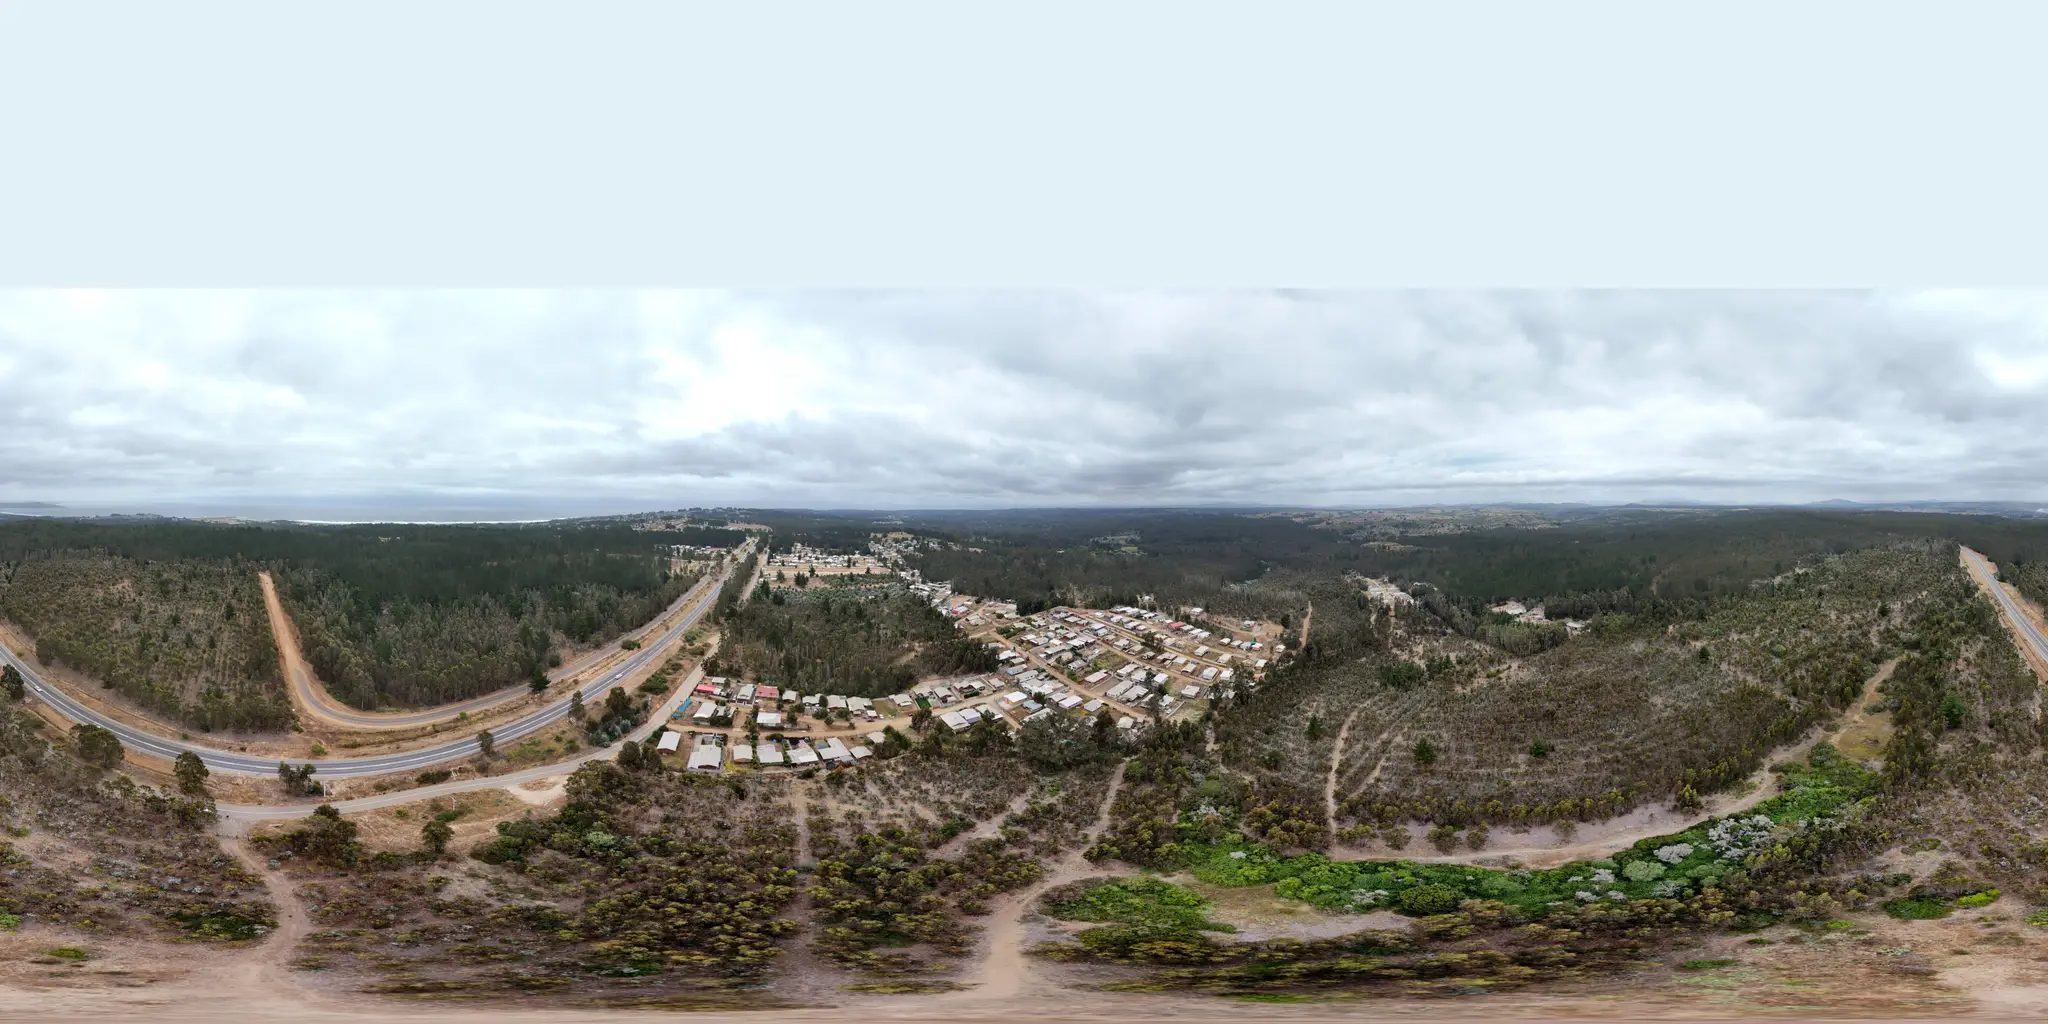
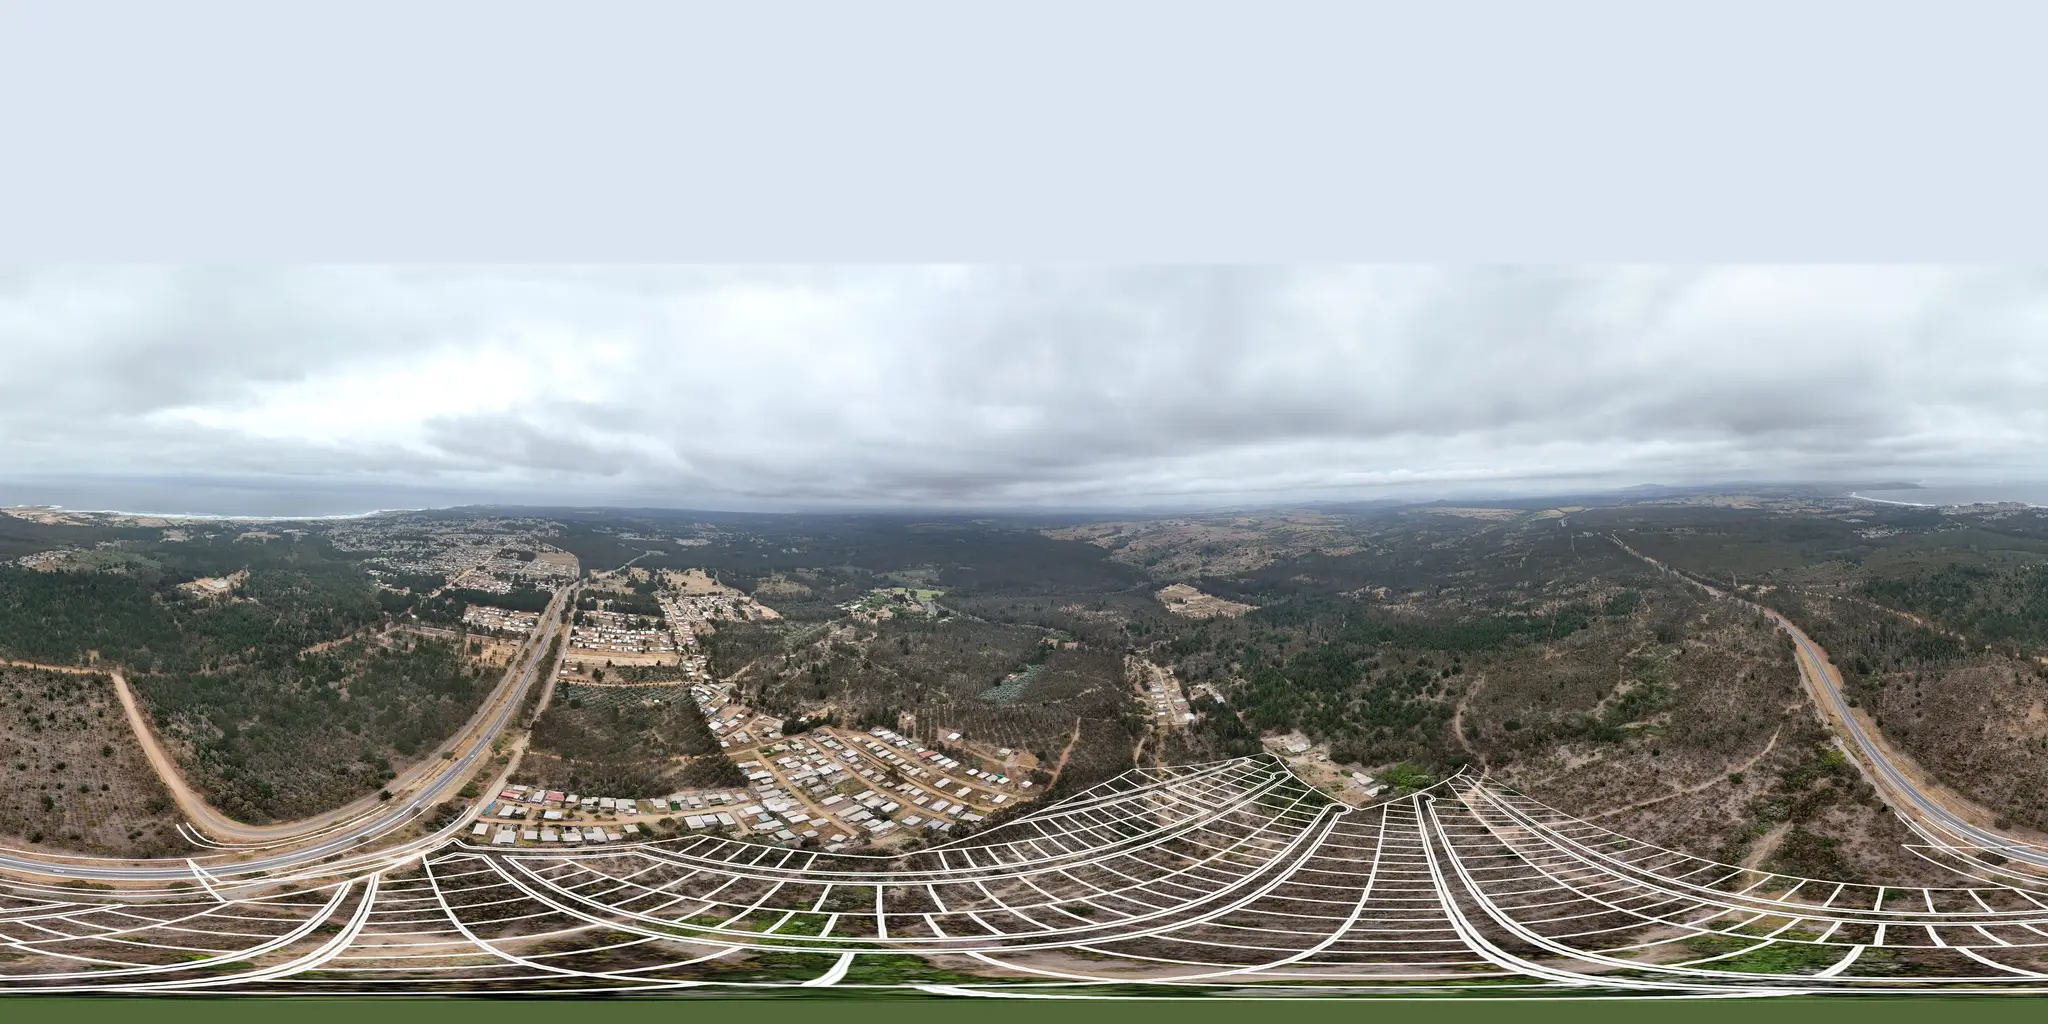
feat(mapa-3d): la panoramica pasa a ser el plano dibujado
El plano nuevo reemplaza a la panoramica antigua, y eso simplifica todo: ya
no hay que alinear una foto con la otra. Ese era mi error de enfoque, y ahi
me fui a un callejon sin salida comparando cielo contra cielo.

Ahora el unico dato que hace falta sale de la propia imagen. Cubre 129,8
grados verticales en vez de 180 porque el vuelo no alcanza el cenit, asi que
para volverla 2:1 hay que saber donde esta el horizonte: se recorre contando
por fila cuantos pixeles son cielo —claro y sin color— y se toma el corte.
Da 33,6 % del alto, o sea 791 px de relleno arriba y 65 abajo.

Con la foto ya en 2:1, el calce se calcula contra los deslindes dibujados,
que son los mismos lotes que tenemos en coordenadas: 54,7 % de aciertos
contra 4,0 % por azar, catorce veces mejor. En pantalla las lineas blancas y
los rectangulos comparten reticula.

Se toma el TIFF y no el JPG: misma imagen, sin perdida, y de todos modos se
reencoda. Queda en 1,72 MB, menos que la anterior.

De paso, un error en el importador: dos extend encadenados no se acumulan en
sharp, el segundo pisa al primero, y la imagen salia en 2,69:1 en vez de 2:1.
Ahora son dos pasadas y ademas comprueba el tamaño antes de escribir.

diff --git a/scripts/importar-plano-panoramica.js b/scripts/importar-plano-panoramica.js
@@ -1,22 +1,26 @@
 /*
- * Mete la panorámica con los deslindes dibujados en la proyección que usa el
- * mapa 3D.
+ * Convierte la panoramica con los deslindes dibujados en la equirectangular
+ * 2:1 que necesita el mapa 3D.
  *
- * El archivo que llega del trazado no es una equirectangular completa: viene
- * girado y recortado por arriba respecto de la panorámica base. Este script
- * mide ese desfase comparando las dos imágenes —son la misma foto, así que
- * correlacionan— y reconstruye una equirectangular 2:1 alineada:
+ * El archivo que sale del trazado no es una equirectangular completa: cubre
+ * unos 130 grados verticales en vez de 180, porque el vuelo no alcanza el
+ * cenit ni el nadir. Para que el visor la proyecte bien hay que devolverla a
+ * 2:1 con el horizonte exactamente al medio.
  *
- *   - la franja de los lotes sale del plano dibujado
- *   - el cielo y el cenit, que el dibujado no trae, salen de la base
+ * El horizonte se detecta en la propia imagen —el cielo nublado es claro y sin
+ * color, el terreno no— asi que no hace falta compararla con nada. Un intento
+ * anterior alineaba esta foto contra la panoramica antigua y era un callejon
+ * sin salida: la banda que se comparaba era cielo, que correlaciona alto en
+ * cualquier angulo, y el resultado no significaba nada.
  *
- * Asi el manto del visor puede usarla tal cual y los deslindes caen sobre el
- * terreno donde corresponde.
+ *   node scripts/importar-plano-panoramica.js "ruta/plano.tiff"
  *
- *   node scripts/importar-plano-panoramica.js "ruta/plano dibujado.jpg"
+ * Escribe public/lomas3d/pano-360.webp y pano-360-lite.webp.
  *
- * Escribe public/lomas3d/pano-360.webp y pano-360-lite.webp. Guarda copia de
- * las anteriores con sufijo -previo por si hay que volver atras.
+ * Despues hay que recalcular el calce, porque la foto nueva no tiene por que
+ * mirar hacia donde miraba la anterior:
+ *
+ *   node scripts/calzar-con-plano.js
  */
 
 const fs = require('fs')
@@ -24,129 +28,107 @@ const path = require('path')
 const sharp = require('sharp')
 
 const RAIZ = path.join(__dirname, '..')
-const BASE = path.join(RAIZ, 'Agendamiento-dron/drone/pano-360.jpg')
 const SALIDA = path.join(RAIZ, 'public/lomas3d/pano-360.webp')
 const SALIDA_LITE = path.join(RAIZ, 'public/lomas3d/pano-360-lite.webp')
 
-/** Ancho al que se reducen las dos imágenes para medir el desfase. */
-const W = 1024
-
-function ncc(u, v) {
-    const n = u.length
-    let mu = 0, mv = 0
-    for (let i = 0; i < n; i++) { mu += u[i]; mv += v[i] }
-    mu /= n; mv /= n
-    let num = 0, du = 0, dv = 0
-    for (let i = 0; i < n; i++) {
-        const x = u[i] - mu, y = v[i] - mv
-        num += x * y; du += x * x; dv += y * y
-    }
-    return du && dv ? num / Math.sqrt(du * dv) : -2
-}
+/** Ancho de la equirectangular que se publica. El alto sale de la relacion 2:1. */
+const ANCHO = 6144
 
 /**
- * Giro horizontal y desplazamiento vertical del plano dibujado respecto de la
- * base. Se compara solo el tercio superior: ahi hay cielo y horizonte, sin
- * lineas pintadas que ensucien la medicion.
+ * Fila del horizonte, como fraccion del alto.
  *
- * En una equirectangular, llevar las dos al mismo ancho ya iguala la escala
- * vertical: los grados por pixel son los mismos en los dos ejes. Por eso solo
- * hacen falta dos desplazamientos, no una escala.
+ * Se recorre de arriba hacia abajo contando por fila cuantos pixeles son
+ * cielo: claros y sin color dominante. Arriba da 100 %, y en el horizonte cae
+ * de golpe. Se toma el primer cruce por la mitad.
  */
-async function medirDesfase(archivo) {
-    const a = await sharp(archivo).resize(W).greyscale().raw().toBuffer({ resolveWithObject: true })
-    const b = await sharp(BASE).resize(W).greyscale().raw().toBuffer({ resolveWithObject: true })
-    const HA = a.info.height, HB = b.info.height
-    const filas = Math.floor(HA * 0.42)
+async function buscarHorizonte(archivo) {
+    const W = 1024
+    const r = await sharp(archivo, { limitInputPixels: false })
+        .resize(W).raw().toBuffer({ resolveWithObject: true })
+    const H = r.info.height, C = r.info.channels
 
-    const puntuar = (dx, dy, pasoY, pasoX) => {
-        const u = [], v = []
-        for (let y = 10; y < filas; y += pasoY) {
-            const yb = y + dy
-            if (yb < 0 || yb >= HB) continue
-            for (let x = 0; x < W; x += pasoX) {
-                u.push(a.data[y * W + x])
-                v.push(b.data[yb * W + (((x + dx) % W) + W) % W])
-            }
+    const cieloPorFila = []
+    for (let y = 0; y < H; y++) {
+        let cielo = 0
+        for (let x = 0; x < W; x++) {
+            const i = (y * W + x) * C
+            const R = r.data[i], G = r.data[i + 1], B = r.data[i + 2]
+            if (Math.min(R, G, B) > 120 && Math.max(R, G, B) - Math.min(R, G, B) < 40) cielo++
         }
-        return u.length < 400 ? -2 : ncc(u, v)
+        cieloPorFila.push(cielo / W)
     }
 
-    let mejor = { s: -2 }
-    for (let dx = 0; dx < W; dx++) {
-        for (let dy = -120; dy <= 200; dy += 2) {
-            const s = puntuar(dx, dy, 3, 7)
-            if (s > mejor.s) mejor = { s, dx, dy }
-        }
+    if (cieloPorFila[0] < 0.5) {
+        throw new Error('La imagen no empieza con cielo arriba: no parece una panoramica sin rotar.')
     }
-    for (let dx = mejor.dx - 3; dx <= mejor.dx + 3; dx++) {
-        for (let dy = mejor.dy - 3; dy <= mejor.dy + 3; dy++) {
-            const s = puntuar(dx, dy, 2, 4)
-            if (s > mejor.s) mejor = { s, dx, dy }
-        }
+    for (let y = 1; y < H; y++) {
+        if (cieloPorFila[y - 1] >= 0.5 && cieloPorFila[y] < 0.5) return y / H
     }
-    return { ...mejor, HA, HB }
+    throw new Error('No se encontro el horizonte: el cielo no llega a cortarse.')
 }
 
 async function main() {
     const origen = process.argv[2]
     if (!origen || !fs.existsSync(origen)) {
-        console.error('Uso: node scripts/importar-plano-panoramica.js "ruta/plano dibujado.jpg"')
+        console.error('Uso: node scripts/importar-plano-panoramica.js "ruta/plano.tiff"')
         process.exit(1)
     }
 
-    const base = await sharp(BASE).metadata()
-    const AN = base.width, AL = base.height
-    console.log(`Panoramica base: ${AN}x${AL}`)
+    const meta = await sharp(origen, { limitInputPixels: false }).metadata()
+    console.log(`Origen: ${meta.width}x${meta.height} (${meta.format}) — cubre ${(meta.height / meta.width * 360).toFixed(1)} grados verticales`)
 
-    const d = await medirDesfase(origen)
-    console.log(`Correlacion con la base: ${d.s.toFixed(3)}`)
-    if (d.s < 0.7) {
-        console.error('\nCorrelacion demasiado baja: puede que no sea la misma panoramica.')
-        console.error('No se escribe nada para no romper el mapa.')
+    const fraccion = await buscarHorizonte(origen)
+    console.log(`Horizonte al ${(fraccion * 100).toFixed(1)} % del alto`)
+
+    // La foto, llevada al ancho de publicacion.
+    const cuerpo = await sharp(origen, { limitInputPixels: false })
+        .resize({ width: ANCHO })
+        .toBuffer()
+    const mc = await sharp(cuerpo).metadata()
+
+    const ALTO = ANCHO / 2
+    const horizonte = Math.round(mc.height * fraccion)
+    const arriba = Math.round(ALTO / 2 - horizonte)
+    const abajo = ALTO - arriba - mc.height
+    console.log(`Relleno: ${arriba} px arriba, ${abajo} px abajo, para dejar el horizonte en la fila ${ALTO / 2} de ${ALTO}`)
+    if (arriba < 0 || abajo < 0) {
+        console.error('La foto no cabe en 2:1 con el horizonte al medio. Revisa que no venga ya recortada o rotada.')
         process.exit(1)
     }
 
-    // Los desplazamientos se midieron a 1024 de ancho: se escalan al tamaño real.
-    const k = AN / W
-    const giro = Math.round(d.dx * k)
-    const arriba = Math.round(d.dy * (AL / d.HB))
-    console.log(`Giro: ${(d.dx / W * 360).toFixed(2)} grados (${giro} px)`)
-    console.log(`Recorte superior del dibujado: ${(d.dy * 180 / d.HB).toFixed(1)} grados (${arriba} px)`)
+    /* El relleno se hace con el color del borde: arriba queda cielo y abajo
+       tierra, que es lo que habria si la foto llegara hasta el cenit. Es una
+       aproximacion, pero esas zonas casi no se ven —el manto se difumina
+       antes— y cualquier otra cosa cantaria mas. */
+    const tono = async (top, height) => {
+        const { data } = await sharp(cuerpo).extract({ left: 0, top, width: mc.width, height })
+            .resize(1, 1).raw().toBuffer({ resolveWithObject: true })
+        return { r: data[0], g: data[1], b: data[2] }
+    }
+    const cielo = await tono(0, 8)
+    const suelo = await tono(mc.height - 8, 8)
+    console.log(`Tono del relleno — cielo rgb(${cielo.r},${cielo.g},${cielo.b}) · suelo rgb(${suelo.r},${suelo.g},${suelo.b})`)
 
-    // El dibujado, llevado al ancho de la base.
-    const dibujado = await sharp(origen).resize({ width: AN }).toBuffer()
-    const md = await sharp(dibujado).metadata()
-    console.log(`Plano dibujado reescalado: ${md.width}x${md.height}`)
+    /* Dos pasadas y no dos extend encadenados: sharp no los acumula, el
+       segundo reemplaza al primero y la imagen sale con un solo relleno. */
+    const conCielo = await sharp(cuerpo)
+        .extend({ top: arriba, background: cielo })
+        .toBuffer()
+    const completa = await sharp(conCielo)
+        .extend({ bottom: abajo, background: suelo })
+        .toBuffer()
 
-    /* Se apoya sobre la base: el cielo y el cenit, que el dibujado no trae,
-       quedan con los de la panoramica original. */
-    const compuesta = await sharp(BASE)
-        .composite([{ input: dibujado, top: arriba, left: 0 }])
-        .raw()
-        .toBuffer({ resolveWithObject: true })
-
-    // Giro horizontal: la equirectangular es continua, se puede rotar sin costura.
-    const { data, info } = compuesta
-    const c = info.channels
-    const girada = Buffer.alloc(data.length)
-    for (let y = 0; y < AL; y++) {
-        for (let x = 0; x < AN; x++) {
-            const xo = (((x - giro) % AN) + AN) % AN
-            data.copy(girada, (y * AN + x) * c, (y * AN + xo) * c, (y * AN + xo) * c + c)
-        }
+    const mf = await sharp(completa).metadata()
+    if (mf.width !== ANCHO || mf.height !== ALTO) {
+        throw new Error(`La equirectangular quedo en ${mf.width}x${mf.height} y tenia que ser ${ANCHO}x${ALTO}.`)
     }
 
-    for (const [salida, ancho, calidad] of [[SALIDA, AN, 82], [SALIDA_LITE, 2048, 70]]) {
-        if (fs.existsSync(salida)) fs.copyFileSync(salida, salida.replace('.webp', '-previo.webp'))
-        await sharp(girada, { raw: { width: AN, height: AL, channels: c } })
-            .resize({ width: ancho })
-            .webp({ quality: calidad })
-            .toFile(salida)
+    for (const [salida, ancho, calidad] of [[SALIDA, ANCHO, 82], [SALIDA_LITE, 2048, 70]]) {
+        await sharp(completa).resize({ width: ancho }).webp({ quality: calidad }).toFile(salida)
         console.log(`Escrito ${path.basename(salida)} — ${(fs.statSync(salida).size / 1048576).toFixed(2)} MB`)
     }
 
-    console.log('\nCopias de seguridad con sufijo -previo por si hay que volver atras.')
+    console.log('\nAhora hay que recalcular el calce:  node scripts/calzar-con-plano.js')
 }
 
-main().catch(e => { console.error(e); process.exit(1) })
+main().catch(e => { console.error('\n' + e.message); process.exit(1) })
